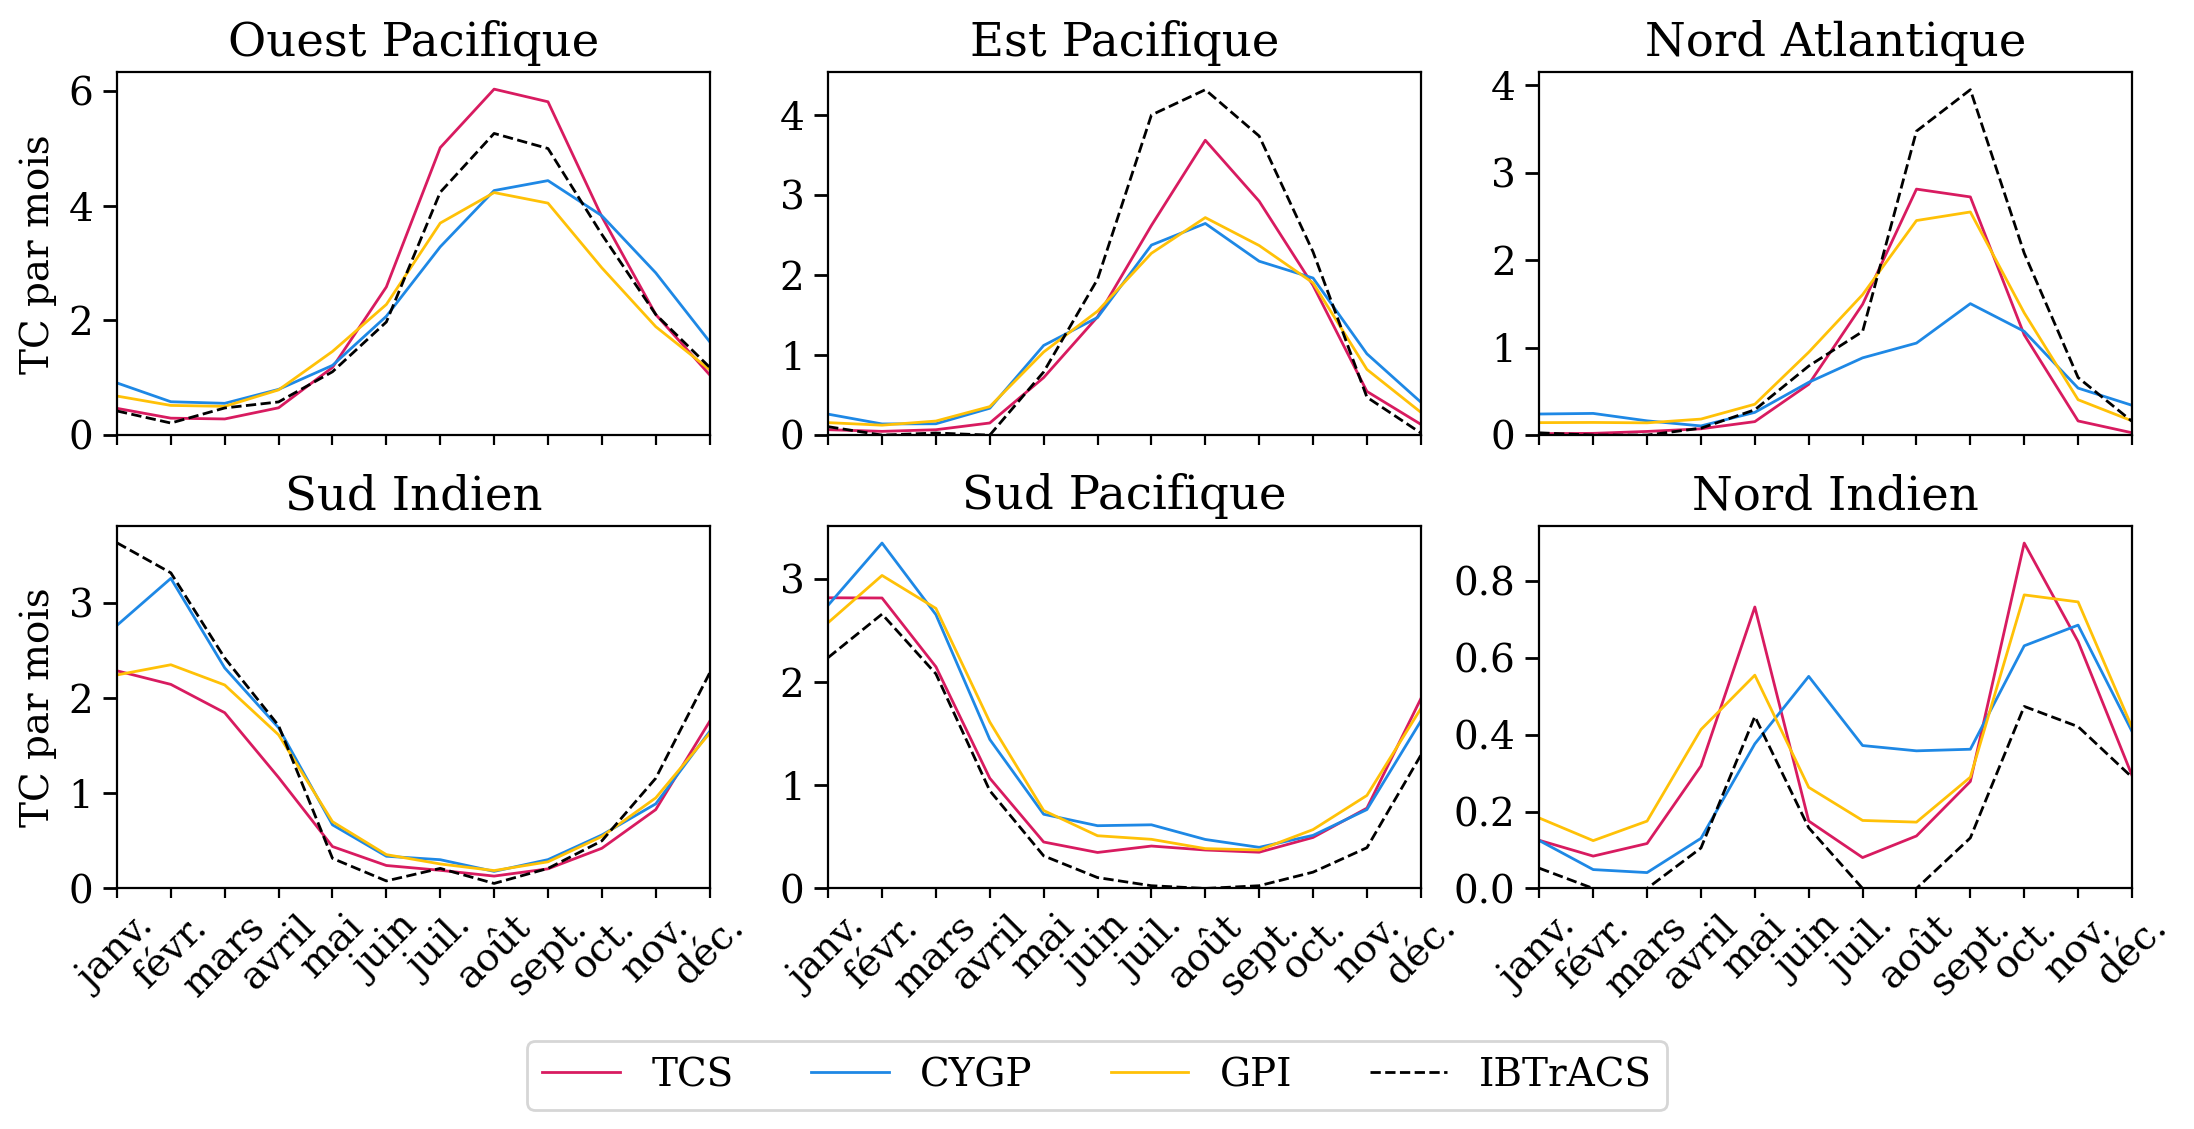
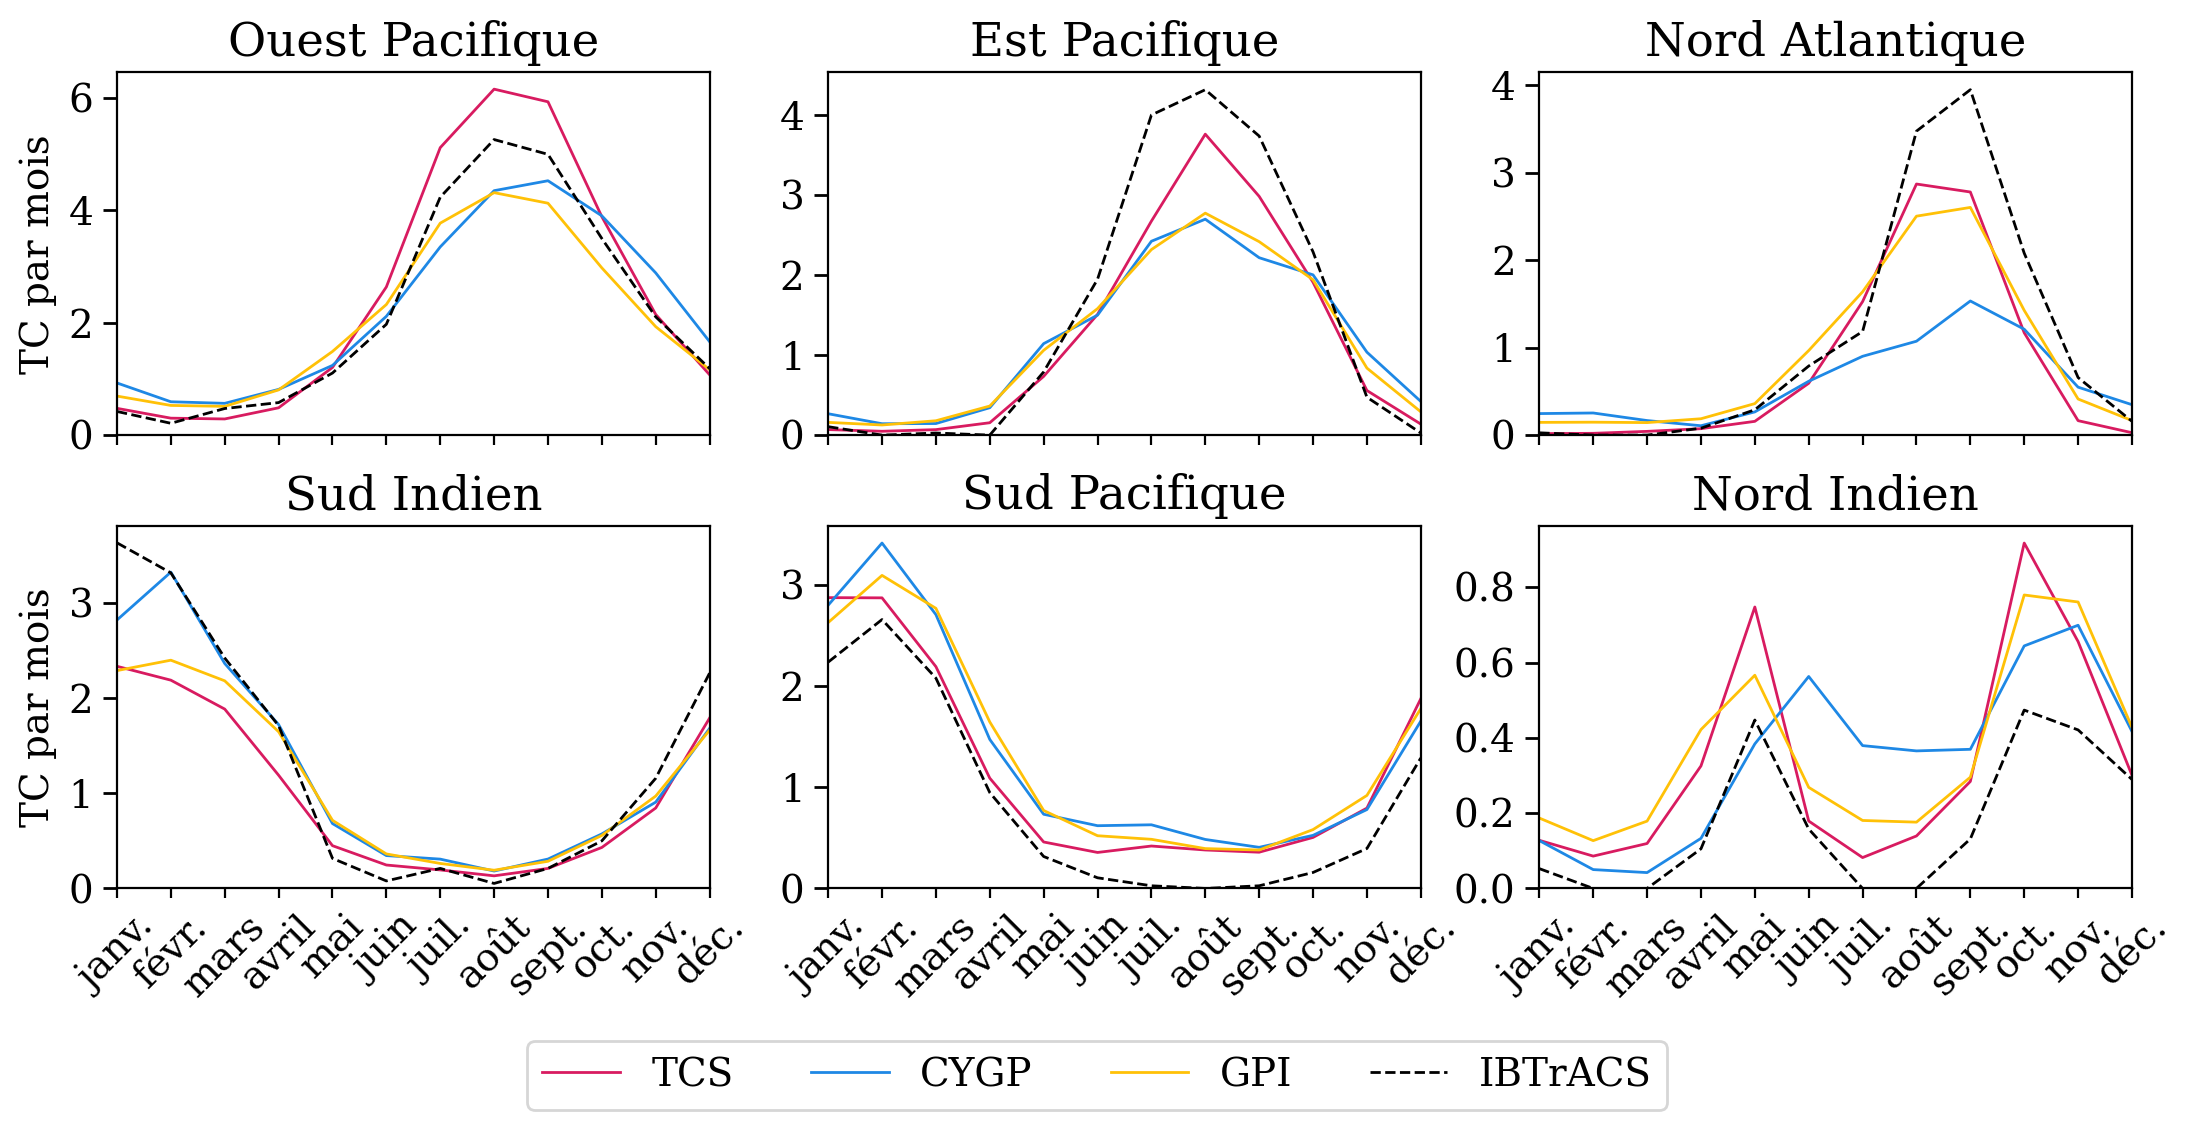
Avancement chapitre 3

diff --git a/Chapitres/chapitre3.tex b/Chapitres/chapitre3.tex
@@ -169,16 +169,17 @@ vorticité absolue à \hPa{850} et enfin le gradient méridional de la composant
 
 Résultat de la diversité des formulations et du choix des prédicteurs définissant les divers indices de cyclogénèses présenté dans la
 \cref{sec:tour_horizon_indices}, la capacité de chacun d'entre eux à simuler l'activité cyclonique moyenne est également variable. Dans cette section sont
-comparés les caractéristiques des trois indices définis précédemment, à savoir le TCS, le CYGP et le GPI.
+comparés les caractéristiques des trois indices définis précédemment, à savoir le TCS, le CYGP et le GPI. Les trois indices sont calculés sur les moyennes
+mensuelles ERA5 entre \num{1981} et \num{2019}, interpolées sur une grille régulière de \ang{1} de résolution horizontale. Ils sont ensuite calibrés de façon à
+ce que le nombre de TC moyen par année (calendaire) simulé sur la période soit égal à la fréquence annuelle moyenne observée dans IBTrACS, soit ici \num{84.7}
+TC par an. Pour IBTrACS, on qualifie de cyclogénèses les premières observations des systèmes référencés qui sont renseignés, à un moment de leur cycle de vie,
+comme tempête tropicale ou subtropicale.
 
 \subsubsection*{Distribution méridionale}
 
 La \cref{fig:tcs_cygp_gpi_zonal} présente la distribution méridionale de l'activité pour les trois indices explicités dans la \cref{sec:tour_horizon_indices} et
-évalués sur les moyennes mensuelles ERA5 entre \num{1981} et \num{2019}, comparée à celle d'IBTrACS sur la même période. Ici, les indices sont calibrés de la
-même manière que dans \textcite{menkes_comparison_2012} ---~qui comparent ces trois indices (ainsi que le YGP) sur quatre réanalyses atmosphériques antérieures
-à ERA5~--- à savoir en les normalisant de telle sorte à ce que le nombre de TC moyen par an simulé soit égal à la moyenne annuelle de systèmes observés dans
-IBTrACS entre \ang{30}S et \ang{30}N sur la période considérée, soit 83 TC par an.
-
+évalués sur les moyennes mensuelles ERA5 entre \num{1981} et \num{2019}, comparée à celle d'IBTrACS sur la même période. 
+%
 \begin{figure}[htb]
     \centering
     \includegraphics[width=0.8\textwidth]{tcs_cygp_gpi_ibt_zonal_sum_1981_2019.png}
@@ -187,29 +188,31 @@ IBTrACS entre \ang{30}S et \ang{30}N sur la période considérée, soit 83 TC pa
     IBTrACS renseignés comme tempêtes tropicales ou subtropicales sur la même période et sur la même grille spatiale.}
     \label{fig:tcs_cygp_gpi_zonal}
 \end{figure}
+%
+Comme indiqué par \textcite{menkes_comparison_2012}, qui évaluent ces trois mêmes indices (ainsi que le YGP) sur quatre réanalyses antérieures à ERA5, les trois
+indices tendent à surévaluer l'activité cyclonique à proximité de l'équateur, aussi bien dans l'hémisphère nord que dans le sud. Sur ERA5, seul le CYGP atteint
+quasiment 0 à l'équateur (\num{0.05} TC par an à exactement 0° par interpolation quadratique, les points de grille les plus proches étant \ang{0.5}S et
+\ang{0.5}N), tandis que le TCS et le GPI y simulent respectivement \num{0.3} et \num{0.4} TC par an. Dans l'hémisphère sud, les trois indices ainsi que les
+observations sont en bon accord pour ce qui concerne l'amplitude de l'activité méridionale moyenne ainsi que sa position. Le maximum des observations est
+atteint à la latitude \ang{11.5}S avec \num{3.13} TC par an. Le TCS, CYGP et le GPI quant à eux ont une latitude du maximum de respectivement \ang{12.5}S,
+\ang{10.5}S et \ang{10.5}S. Les trois indices atteignent donc leur maximum aux latitudes directement voisines du maximum d'IBTrACS, de part et d'autre de
+celle-ci, l'espacement étant de \ang{1}. Le CYGP simule le pic le plus fort et au plus proche des observations avec \num{2.9} TC par an à la latitude du
+maximum, suivi dans l'ordre du TCS (\num{2.7} TC par an) et enfin du GPI (\num{2.5} TC par an). Notons toutefois que, lorsqu'intégré entre \ang{60}S et
+l'équateur, le TCS produit l'activité la plus proche des observations, avec \num{26.8} TC par an contre \num{26.1} TC par an dans IBTrACS (voir aussi
+\cref{tab:tcs_cygp_gpi}). Les deux autres indices surestiment également l'activité totale de cet hémisphère avec \num{31.9} TC par an pour le CYGP et \num{30.7}
+TC par an pour le GPI. En effet, si les trois indices surévaluent l'activité à proximité de l'équateur, le CYGP et le GPI la surestiment également dans les
+latitudes plus basses, là où le TCS suit fidèlement IBTrACS. Dans l'hémisphère sud, la cohérence entre les trois indices et les observations est améliorée par
+rapport aux résultats obtenus par \textcite{menkes_comparison_2012}, notamment sur ERA-40, distante d'ERA5 de deux générations.
 
-Comme indiqué par \textcite{menkes_comparison_2012}, les trois indices tendent à surévaluer l'activité cyclonique à proximité de l'équateur, aussi bien dans
-l'hémisphère nord que dans le sud. Sur ERA5, seul le CYGP atteint quasiment 0 à l'équateur (\num{0.05} TC par an à exactement 0° par interpolation quadratique,
-les points de grille les plus proches étant \ang{0.5}S et \ang{0.5}N), tandis que le TCS et le GPI y simulent respectivement \num{0.31} et \num{0.38} TC par an.
-Dans l'hémisphère sud, les trois indices ainsi que les observations sont en bon accord pour ce qui concerne l'amplitude de l'activité méridionale moyenne ainsi
-que sa position. Le maximum des observations est atteint à la latitude \ang{11.5}S avec \num{3.13} TC par an. Le TCS, CYGP et le GPI quant à eux ont une
-latitude du maximum de respectivement \ang{12.5}S, \ang{10.5}S et \ang{10.5}S. Les trois indices atteignent donc leur maximum aux latitudes directement voisines
-du maximum d'IBTrACS, de part et d'autre de celle-ci, l'espacement étant de \ang{1}. Le CYGP simule le pic le plus fort et au plus proche des observations avec
-\num{2.82} TC par an à la latitude du maximum, suivi dans l'ordre du TCS (\num{2.65} TC par an) et enfin du GPI (\num{2.47} TC par an). Notons toutefois que,
-lorsqu'intégré entre \ang{60}S et l'équateur, le TCS produit l'activité la plus proche des observations, avec \num{26.3} TC par an contre \num{26.1} TC par an
-dans IBTrACS (voir aussi \cref{tab:tcs_cygp_gpi}). Les deux autres indices surestiment également l'activité totale de cet hémisphère avec \num{31.2} TC par an
-pour le CYGP et \num{30} TC par an pour le GPI. En effet, si les trois indices surévaluent l'activité à proximité de l'équateur, le CYGP et le GPI la
-surestiment également dans les latitudes plus basses, là où le TCS suit fidèlement IBTrACS. Dans l'hémisphère sud, la cohérence entre les trois indices et les
-observations est améliorée par rapport aux résultats obtenus par \textcite{menkes_comparison_2012}, notamment sur ERA-40, distante d'ERA5 de deux générations.\\
 Dans l'hémisphère nord, les performances des trois indices sont nettement plus contrastées. Ni l'amplitude, ni la position du pic d'activité, ni l'étendue
 méridionale des trois indices ne correspondent aux observations. Ils présentent tous un biais équatorial plus ou moins prononcé, avec une différence de \ang{4}
 pour le GPI et de \ang{2} pour le TCS et le CYGP dans la latitude du maximum. Bien que le CYGP et le TCS partagent la même latitude du maximum, le biais
 équatorial du CYGP est distinctement plus prononcé que pour le TCS, ce dernier présentant la meilleure ressemblance avec IBTrACS. Comme pour l'hémisphère sud,
-le TCS présente là aussi la meilleure activité totale intégrée entre \ang{0} et \ang{60}N avec un surplus de seulement \num{0.4} TC par an. Le GPI arrive en
-seconde position avec un déficit de \num{3.4} TC par an tandis que le CYGP présente un déficit conséquent de \num{4.5} TC par an. Le CYGP se distingue également
-par un regain d'activité entre \ang{35}N et \ang{40}N. Ainsi, sur ERA5, les trois indices surestiment l'activité cyclonique annuelle moyenne dans l'hémisphère
-sud, tandis que seul le TCS la surestime également lègrement dans l'hémisphère nord ---~les deux autres la sous-évaluant de manière plus importante. Le TCS
-présente l'activité intégrée la plus proche, ainsi que la meilleure distribution méridionale.
+le TCS présente là aussi la meilleure activité totale intégrée entre \ang{0} et \ang{60}N avec un déficit de \num{0.7} TC par an. Le GPI arrive en seconde
+position avec un déficit de \num{4.5} TC par an tandis que le CYGP présente un déficit plus conséquent de \num{5.7} TC par an. Le CYGP se distingue également
+par un regain d'activité entre \ang{35}N et \ang{40}N, évalué à \num{1.3} TC par an sur cette bande. Ainsi, sur ERA5, les trois indices surestiment l'activité
+cyclonique annuelle moyenne dans l'hémisphère sud, et la sous-estiment dans le nord. Le TCS présente toutefois l'activité intégrée la plus proche, ainsi que la
+meilleure distribution méridionale.
 
 \subsubsection*{Climatologie mensuelle}
 
@@ -274,11 +277,12 @@ plus proche, avec une différence inférieure à \num{0.01}. Le GPI arrive en se
         & WPac & EPac & NAtl & SInd & SPac & NInd & NH & SH & Global\\
         \midrule
         \multicolumn{10}{r}{\textbf{Fréquence (TC par an)}}\\
-        IBTrACS & \num{26} & \num{17.7} & \num{12.7} & \num{15.9} & \num{10.2} & \num{2} & \num{56.3} & \num{26.1} & \num{84.7}\\
+        IBTrACS & \num{26} & \num{17.7} & \num{12.7} & \num{15.9} & \num{10.2} & \num{2} & \num{58.5} & \num{26.1} & \num{84.7}\\
         \midrule
-        TCS & \num{29.1} & \textbf{\num{14.3}} & \num{9.3} & \num{11.7} & \textbf{\num{13.9}} & \textbf{\num{3.9}} & \textbf{\num{56.7}} & \textbf{\num{26.3}} & \num{83}\\
-        CYGP & \textbf{\num{26.4}} & \num{14} & \num{7.1} & \textbf{\num{14.9}} & \num{15.9} & \num{4} & \num{51.8} & \num{31.2} & \num{83}\\
-        GPI & \num{24.2} & \num{13.8} & \textbf{\num{10.5}} & \num{13.3} & \num{15.7} & \num{4.3} & \num{52.9} & \num{30} & \num{83}\\
+        TCS & \num{29.7} & \textbf{\num{14.6}} & \num{9.4} & \num{11.9} & \textbf{\num{14.2}} & \textbf{\num{4}} & \textbf{\num{57.8}} & \textbf{\num{26.9}} &
+        \num{84.7}\\
+        CYGP & \textbf{\num{26.9}} & \num{14.3} & \num{7.3} & \textbf{\num{15.2}} & \num{16.2} & \num{4.2} & \num{52.8} & \num{31.9} & \num{84.7}\\
+        GPI & \num{29.7} & \num{14} & \textbf{\num{10.7}} & \num{13.5} & \num{16} & \num{4.4} & \num{54} & \num{30.7} & \num{84.7}\\
         \midrule
         \multicolumn{10}{r}{\textbf{Corrélation interannuelle avec IBTrACS}}\\
         TCS & \num{0.03} & \textbf{\num{0.7}} & \num{0.71} & \num{-0.13} & \num{0.35} & --- & \num{0.31} & \num{-0.07} & $<$ \num{0.01} \\
@@ -306,19 +310,26 @@ des indices dans l'hémisphère nord est plus proche que dans le sud, avec dans 
 que dans l'hémisphère sud les trois indices indiquent une corrélation quasi-nulle. À l'échelle globale, seul le GPI indique une très maigre corrélation
 de \num{0.17}, les deux autres indices ne présentant une fois de plus aucun lien avec les observations.
 
-Séparer le bassin SInd en deux sous-bassins s'avère bénéfique pour la corrélation interannuelle des trois indices. Spécifiquement, on définit le bassin Sud
-Ouest Indien (SIndW) entre \ang{20}E et \ang{90}E de longitude, puis le bassin Sud Est Indien (SIndE), correspondant au bassin australien, entre \ang{90} et
-\ang{135}E. La limite méridionale demeure inchangée, entre \ang{0} et \ang{60}S. Dans ce contexte, le TCS présente une corrélation de \num{0.21} et \num{0.22}
-pour le SIndW et le SIndE respectivement ; \num{0.37} et \num{0.16} pour le CYGP ; \num{0.27} et \num{0.12} pour le GPI. Par conséquent, et pour la suite des
-travaux présentés dans ce document, nous distinguerons toujours les régions SIndW et SIndE. Enfin, il est important de préciser qu'une bonne
-corrélation ne présage en rien de la capacité d'un indice à simuler une amplitude réaliste de sa variabilité interannuelle.
-
 \begin{figure}[tb]
     \centering
     \includegraphics[width=\textwidth]{tcs_cygp_gpi_interannual.png}
     \caption{Variabilité interannuelle entre 1981 et 2019 inférée pour le TCS, le CYGP et le GPI, comparé à IBTrACS.}
     \label{fig:tcs_cygp_gpi_variabilite}
 \end{figure}
+
+Séparer le bassin SInd en deux sous-bassins s'avère bénéfique pour la corrélation interannuelle des trois indices. Spécifiquement, on définit le bassin Sud
+Ouest Indien (SIndW) entre \ang{20}E et \ang{90}E de longitude, puis le bassin Sud Est Indien (SIndE), correspondant au bassin australien, entre \ang{90} et
+\ang{135}E. La limite méridionale demeure inchangée, entre \ang{0} et \ang{60}S. Ce découpage est plus proche du découpage pratiqué pour la surveillance
+opérationnelle, comme expliqué dans la \cref{sec:bassins_saisons} du \cref{chap:chapitre_1}. Dans ce contexte, le TCS présente une corrélation de \num{0.21} et
+\num{0.22} pour le SIndW et le SIndE respectivement ; \num{0.37} et \num{0.16} pour le CYGP ; \num{0.27} et \num{0.12} pour le GPI. Par conséquent, et pour la
+suite des travaux présentés dans ce document, nous distinguerons toujours les régions SIndW et SIndE. Enfin, il est important de préciser qu'une bonne
+corrélation ne présage en rien de la capacité d'un indice à simuler une amplitude réaliste de sa variabilité interannuelle. La
+\cref{fig:tcs_cygp_gpi_variabilite} présente les séries temporelles de variabilité interannuelles entre les saisons cycloniques \num{1981} et \num{2019} dont
+sont issues les corrélations du \cref{tab:tcs_cygp_gpi}. Dans le bassin NAtl, où la corrélation interannuelle est supérieure à \num{0.7} pour les indices,
+l'amplitude de la variabilité inférée est moindre par rapport aux observations. Cela est particulièrement vrai pour le GPI, présentant un écart-type de
+\num{1.4} TC contre \num{4.8} TC dans IBTrACS. Le TCS présente une amplitude plus forte que le GPI, mais cette dernière reste toutefois faible, avec un
+écart-type de \num{2.3}, soit une dispersion plus de deux fois petite que la dispersion observée. Certains sursauts observés sont cependant capturés par les
+trois indices. C'est notamment le cas de l'année \num{1995} et \num{2005}.
 
 %--------------------------------------
 \section{Exploration du potentiel prédictif d'un indice à l'échelle saisonnière}
